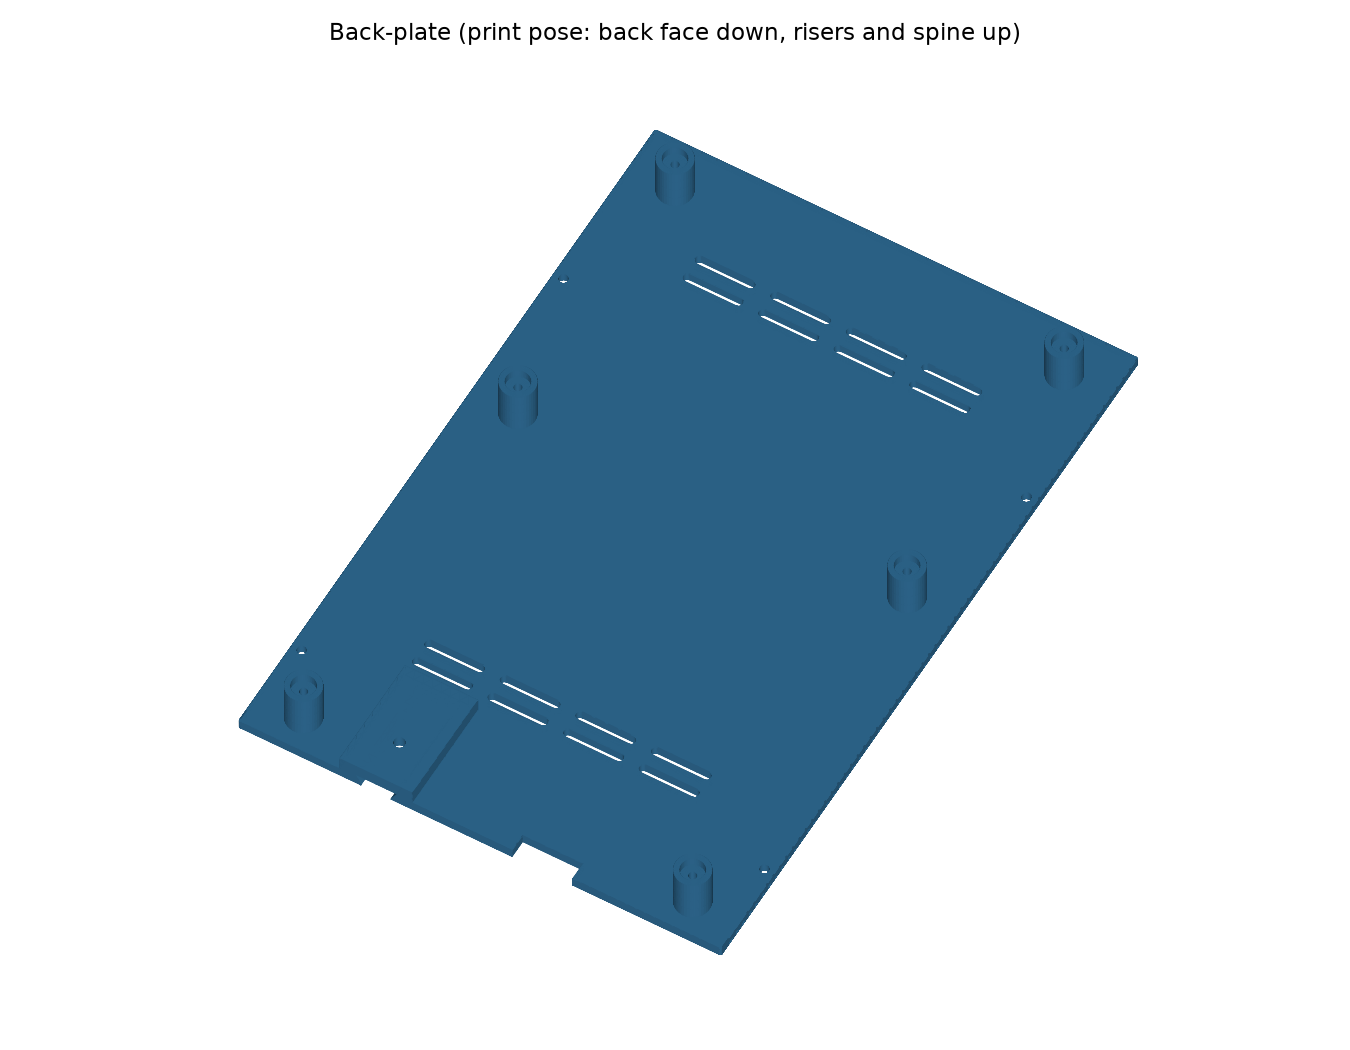
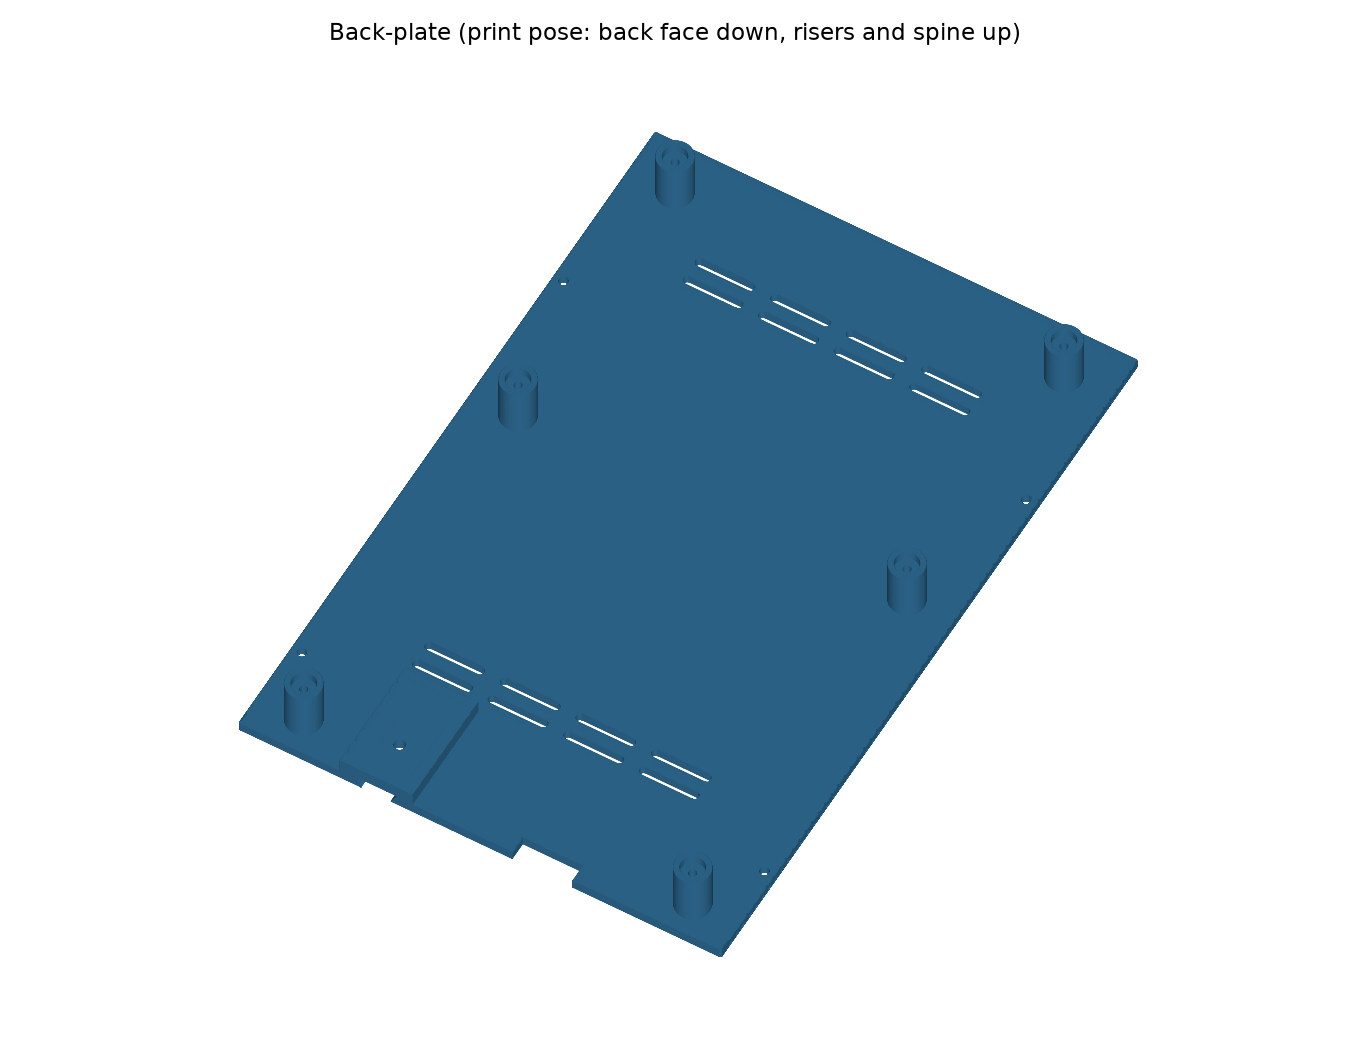
feat: COM-396 lengthen the printed risers from the frame fit test
The first printed plate left 2.5 mm between the frame face and the glass
(nominal 1.2 with felt). Print the risers RISER_FIT_ADD = 2.25 mm longer
for a 0.25 mm air gap and no face felt, deepen the head counterbores to
5.75 mm and the plug bodies to 3.85 mm so the M2.5 × 16 keeps 3.8 mm in
the inserts. The assembly model keeps the nominal board and risers; the
frame, foot and lid are unchanged. Add an as-built gap check and an
As-built fit section to the README.

diff --git a/apps/espframe/hardware/stand-10/stand10/params.py b/apps/espframe/hardware/stand-10/stand10/params.py
@@ -107,22 +107,28 @@ RISER_D = 11.0                    # DESIGN: leaves a 1.55 mm skirt wall round th
 RISER_SEAT = (BOSS_D + 0.4, 3.0)  # DESIGN: locating recess over each boss (dia, depth): a 0.2 mm/side slip fit that sleeves
                                   #   3 of the boss's 4.5 mm (1 mm on the printed coupon gripped too little, COM-396), so the
                                   #   skirt stops 1.5 mm off the flat back and the riser always seats on the boss top
+FIT_FACE_GAP_MEASURED = 2.5       # MEASURED (COM-396 fit test, screws tight, no felt): 6.5 mm from a rule on the frame face to
+                                  #   the glass, less the 4.0 mm face; the nominal model predicts 1.2 (the felt space)
+FIT_FACE_GAP_TARGET = 0.25        # DESIGN: the user's choice, a small air gap and no face felt
+RISER_FIT_ADD = FIT_FACE_GAP_MEASURED - FIT_FACE_GAP_TARGET  # 2.25: the printed risers are this much longer than the
+                                  #   nominal RISER_H. The assembly model keeps the nominal board and risers; only the
+                                  #   printed plate and riser coupon carry it. With felt, drop it by FELT_T and reprint the plate.
 SCREW_L = 16.0                    # DESIGN: M2.5 × 16 button head, no washer (the user's pack has × 16 and × 20, COM-396)
 WASHER_T = 0.0                    #   seated on the counterbore floor, SCREW_HEAD_CB[1] down from the back face
-SCREW_HEAD_CB = (5.6, 3.5)        # DESIGN: head counterbore (dia, depth from the back face): fits button heads up to Ø5.0,
-                                  #   the head top sits ~2 mm under the back; 12.2 mm of plate and riser to the boss top
+SCREW_HEAD_CB = (5.6, 3.5 + RISER_FIT_ADD)  # DESIGN: head counterbore (dia, depth from the back face): fits button heads
+                                  #   up to Ø5.0, the head top ~4.25 mm under the back; 12.2 mm of plate and riser to the boss top
                                   #   gives 3.8 mm into the 4.4 mm insert. No washer: one would lift the head
                                   #   0.5 mm, into the cover plug
 BUTTON_HEAD_K = 1.5               # EST: tallest M2.5 button head expected (commercial 1.3–1.5)
 PLUG_D = 5.45                     # DESIGN: removable cover plug, a friction fit in the Ø5.6 counterbore (PETG)
 PLUG_TRIAL_D = [5.35, 5.45, 5.55] # DESIGN: plug test set, 1–3 notches in the pull tab
-PLUG_BODY = 1.6                   # DESIGN: plug depth into the counterbore, short of the screw head
+PLUG_BODY = 1.6 + RISER_FIT_ADD   # DESIGN: plug depth into the counterbore, short of the screw head
 PLUG_FLANGE = (SCREW_HEAD_CB[0] + 0.8, 0.6)  # DESIGN: lip (dia, thickness) proud of the back face
 PLUG_TAB = (2.5, 1.2)             # DESIGN: pull tab on one side of the lip (width, reach past the lip) for a fingernail
 MIN_PLUG_HEAD_GAP = 0.3           # DESIGN: check limit, plug end above the tallest button head
 MIN_SCREW_ENGAGE = 3.0            # DESIGN: check limit, M2.5 thread engaged in the insert (1.2 × D)
 MIN_SCREW_BOTTOM = 0.3            # DESIGN: check limit, screw tip short of the insert's bottom
-# Engagement = SCREW_L − WASHER_T − (PLATE_T + RISER_H − SCREW_HEAD_CB depth); the riser's locating recess sits over the boss, not under the screw.
+# Engagement = SCREW_L − WASHER_T − (PLATE_T + RISER_H + RISER_FIT_ADD − SCREW_HEAD_CB depth); the riser's locating recess sits over the boss, not under the screw.
 D_BOSS_TOP = BODY_T + BOSS_H                       # 12.7
 D_PLATE_FRONT = BODY_T + BOX_D + PLATE_CLEAR       # 25.4
 D_PLATE_BACK = D_PLATE_FRONT + PLATE_T             # 28.4

diff --git a/apps/espframe/hardware/stand-10/stand10/plate.py b/apps/espframe/hardware/stand-10/stand10/plate.py
@@ -16,12 +16,14 @@ def frame_tab_spans():
             (inner_r - p.FRAME_BOSS_D, inner_r - p.PLATE_EDGE_CLEAR, inner_r - r))
 
 
-def riser_stack() -> Part:
+def riser_stack(fit: bool = False) -> Part:
     """One riser, from the plate front face (z = 0) forward: RISER_H to the boss top, then a RISER_SEAT recess
-    that drops over the boss, so the plate can't shift sideways on its screws."""
+    that drops over the boss, so the plate can't shift sideways on its screws. With fit, RISER_FIT_ADD longer:
+    the printed length, from the fit test."""
     sd, sh = p.RISER_SEAT
-    riser = Cylinder(p.RISER_D / 2, p.RISER_H + sh, align=(Align.CENTER, Align.CENTER, Align.MIN))
-    return riser - Pos(0, 0, p.RISER_H) * Cylinder(sd / 2, sh + 0.01, align=(Align.CENTER, Align.CENTER, Align.MIN))
+    h = p.RISER_H + (p.RISER_FIT_ADD if fit else 0.0)
+    riser = Cylinder(p.RISER_D / 2, h + sh, align=(Align.CENTER, Align.CENTER, Align.MIN))
+    return riser - Pos(0, 0, h) * Cylinder(sd / 2, sh + 0.01, align=(Align.CENTER, Align.CENTER, Align.MIN))
 
 
 def plate_outline():
@@ -31,7 +33,7 @@ def plate_outline():
     return (p.FRAME_X[0] + w + c, p.FRAME_X[1] - w - c, p.PLATE_Y0, p.FRAME_Y[1] - w - c)
 
 
-def build_plate() -> Part:
+def build_plate(fit: bool = False) -> Part:
     """Back-plate in the screen frame (z = -depth behind the glass front)."""
     # Fills the frame out to its walls, so the back is closed with no gap round the plate.
     x0, x1, y0, y1 = plate_outline()
@@ -40,7 +42,7 @@ def build_plate() -> Part:
 
     # Risers: from the plate front face forward over the rear box's depth, seated over the boss tops.
     for x, y in p.HOLES:
-        plate += Pos(x, y, -p.D_PLATE_FRONT) * riser_stack()
+        plate += Pos(x, y, -p.D_PLATE_FRONT) * riser_stack(fit)
 
     # Spine: local thickening towards the panel that carries the dovetail groove.
     plate += screen_box(p.SPINE_X[0], p.SPINE_X[1], y0, p.SPINE_TOP_Y,
@@ -56,7 +58,7 @@ def build_plate() -> Part:
     cd, ch = p.SCREW_HEAD_CB
     for x, y in p.HOLES:
         plate -= Pos(x, y, -p.D_PLATE_BACK - 1) * Cylinder(
-            p.M25_CLEAR_D / 2, p.PLATE_T + p.RISER_H + p.RISER_SEAT[1] + 2, align=(Align.CENTER, Align.CENTER, Align.MIN))
+            p.M25_CLEAR_D / 2, p.PLATE_T + p.RISER_H + p.RISER_FIT_ADD + p.RISER_SEAT[1] + 2, align=(Align.CENTER, Align.CENTER, Align.MIN))
         plate -= Pos(x, y, -p.D_PLATE_BACK - 1) * Cylinder(cd / 2, ch + 1, align=(Align.CENTER, Align.CENTER, Align.MIN))
 
     # Dovetail groove, open at the bottom edge so the plate slides down onto the rail.

diff --git a/apps/espframe/hardware/stand-10/stand10/checks.py b/apps/espframe/hardware/stand-10/stand10/checks.py
@@ -63,13 +63,19 @@ def run(parts: dict) -> list:
         f"skirts sleeve {p.RISER_SEAT[1]:g} mm of each boss and stop {back_gap:.2f} mm off the flat back; recess Ø{p.RISER_SEAT[0]:g} × {p.RISER_SEAT[1]:g} over Ø{p.BOSS_D:g} bosses")
 
     # 2. M2.5 screws: through the plate and riser into the board's inserts, never bottoming.
-    stack = p.PLATE_T + p.RISER_H - p.SCREW_HEAD_CB[1]
+    # The printed risers are RISER_FIT_ADD longer than the nominal model's (fit test), and the counterbore with them.
+    stack = p.PLATE_T + p.RISER_H + p.RISER_FIT_ADD - p.SCREW_HEAD_CB[1]
     engage = p.SCREW_L - p.WASHER_T - stack
     add(f"M2.5 × {p.SCREW_L:g} engagement in the inserts",
         p.MIN_SCREW_ENGAGE <= engage <= p.BOSS_THREAD - p.MIN_SCREW_BOTTOM,
         f"button head on the counterbore floor, {stack:.1f} mm above the boss top: {engage:.1f} mm into the "
         f"{p.BOSS_THREAD:g} mm insert (need {p.MIN_SCREW_ENGAGE:g}–{p.BOSS_THREAD - p.MIN_SCREW_BOTTOM:.1f}); "
         "no washer, which would lift the head into the cover plug")
+
+    fit_gap = p.FIT_FACE_GAP_MEASURED - p.RISER_FIT_ADD
+    add("As-built face gap after the riser fit", 0.1 <= fit_gap <= 0.5,
+        f"fit test: {p.FIT_FACE_GAP_MEASURED:g} mm from the frame face's rear to the glass with nominal risers; printed "
+        f"{p.RISER_FIT_ADD:g} mm longer, {fit_gap:.2f} mm of air, no face felt (need 0.1–0.5)")
 
     head_gap = p.SCREW_HEAD_CB[1] - p.WASHER_T - p.BUTTON_HEAD_K - p.PLUG_BODY
     add("Hole plugs clear the screw heads",

diff --git a/apps/espframe/hardware/stand-10/stand10/coupons.py b/apps/espframe/hardware/stand-10/stand10/coupons.py
@@ -53,13 +53,13 @@ def template_coupon() -> Part:
 
 
 def riser_coupon() -> Part:
-    """One riser on a 3 mm square of plate, as on the back-plate: back face on the bed. It should drop over a
+    """One riser on a 3 mm square of plate, as printed on the back-plate (RISER_FIT_ADD longer than nominal): back face on the bed. It should drop over a
     boss, and an M2.5 × 16 button head, no washer, should pull it down without bottoming in the insert, its head
     in the counterbore below the back face."""
     from .plate import riser_stack
     s = 22.0
-    part = box(-s / 2, s / 2, -s / 2, s / 2, 0, p.PLATE_T) + Pos(0, 0, p.PLATE_T) * riser_stack()
-    part -= Pos(0, 0, -1) * Cylinder(p.M25_CLEAR_D / 2, p.PLATE_T + p.RISER_H + p.RISER_SEAT[1] + 2,
+    part = box(-s / 2, s / 2, -s / 2, s / 2, 0, p.PLATE_T) + Pos(0, 0, p.PLATE_T) * riser_stack(fit=True)
+    part -= Pos(0, 0, -1) * Cylinder(p.M25_CLEAR_D / 2, p.PLATE_T + p.RISER_H + p.RISER_FIT_ADD + p.RISER_SEAT[1] + 2,
                                      align=(Align.CENTER, Align.CENTER, Align.MIN))
     cd, ch = p.SCREW_HEAD_CB
     part -= Pos(0, 0, -1) * Cylinder(cd / 2, ch + 1, align=(Align.CENTER, Align.CENTER, Align.MIN))

diff --git a/apps/espframe/hardware/stand-10/stand10/build.py b/apps/espframe/hardware/stand-10/stand10/build.py
@@ -57,7 +57,7 @@ def main(argv=None) -> int:
     plate, foot, lid, frame = build_plate(), build_foot(), build_lid(), build_frame()
     printed = {
         "frame": frame_print_pose(frame),
-        "plate": plate_print_pose(plate),
+        "plate": plate_print_pose(build_plate(fit=True)),   # printed risers carry RISER_FIT_ADD
         "foot": foot,
         "lid": lid_print_pose(lid),
         "coupon-template": template_coupon(),

diff --git a/apps/espframe/hardware/stand-10/README.md b/apps/espframe/hardware/stand-10/README.md
@@ -15,8 +15,8 @@ Overall 164 W × 127 D × 245 H mm. The screen leans back 15° and pushing it ba
 - **On the desk.** There's one variant, like the 7"'s on-desk one (COM-442): the frame stands on felt on the desk, and the foot behind it holds the lean through a dovetail. The shell's bottom edge sits 7 mm off the desk, as low as the straight plug's R18 bend allows (1.7 mm to spare).
 - **Picture frame (wood-look PLA).** The outer edge sits tight to the shell (2.7 mm outside it), and the face runs in over the whole black glass border to the picture, so only the picture shows, with a 0.75 mm reveal. Faces are 13.6 mm at the sides and 15.1 at the top; at the bottom the face runs down to the desk, a 20 mm border.
   - It's 164.1 × 253.1 mm printed face-down, within the P1S's 256 bed by 2.9 mm. A lower screen would need a shorter plug; a higher one would make the frame too tall to print in one piece.
-  - It hangs on the back-plate: four M3 × 8 screws from behind, through the plate's edges, into inserts in bosses on its side walls. There's no bottom wall (as the 7", COM-431). It never touches the glass: felt on the back of the face stays 0.2 mm off it.
-- **Back-plate (3 mm PETG), closed, behind the rear box.** Six printed risers (Ø11, 12.7 above the boss tops) stand on the board's six bosses (short black standoffs with brass M2.5 inserts) and carry the plate 2 mm behind the rear box. Each riser's skirt has a Ø7.9 × 3 mm recess that sleeves 3 of the boss's 4.5 mm, so the plate can't slide on its screws; the skirt stops 1.5 mm off the flat back, so the riser always seats on the boss top. Each screw hole is counterbored Ø5.6 × 3.5 mm from the back, so the M2.5 × 16 button heads sit about 2 mm below it, and a printed plug covers each one. Vent slots run in two rows low and two near the top.
+  - It hangs on the back-plate: four M3 × 8 screws from behind, through the plate's edges, into inserts in bosses on its side walls. There's no bottom wall (as the 7", COM-431). It never touches the glass: as printed (see As-built fit below) the face's rear stays 0.25 mm off it, with no face felt.
+- **Back-plate (3 mm PETG), closed, behind the rear box.** Six printed risers (Ø11, 14.95 mm from the plate to the boss tops: the nominal 12.7 plus the 2.25 mm fit correction) stand on the board's six bosses (short black standoffs with brass M2.5 inserts) and carry the plate 2 mm behind the rear box. Each riser's skirt has a Ø7.9 × 3 mm recess that sleeves 3 of the boss's 4.5 mm, so the plate can't slide on its screws; the skirt stops 1.5 mm off the flat back, so the riser always seats on the boss top. Each screw hole is counterbored Ø5.6 × 5.75 mm from the back, so the M2.5 × 16 button heads sit about 4.25 mm below it, and a printed plug covers each one. Vent slots run in two rows low and two near the top.
 - **Foot (PETG).** The plate's dovetail groove (in a spine left of the USB-C bank) slides down onto a rail on the foot's post. The cable drops through a notch in the plate's bottom edge and a slot in the shelf between the frame's side walls, runs through a tunnel into the tray, lies as one loose coil, and ends at the Poyiccot panel jack in the rear wall. The tray has a click-in lid, as on the 7".
 - **Power and data.** The same Poyiccot USB 3.1 straight panel-mount extension (30 cm) as the 7". Its plug goes into the board's **USB_UART** port (the USB-C beside the white TX/RX/GND header), so any USB-C charger powers it and you can flash or read logs through the stand.
 - **Antenna.** The C6's antenna window is near the top-left corner seen from the front (centre 23 mm from the top and from that edge). Only PETG covers it: the screw nearest it is nylon, and every other screw and insert stays at least 15 mm away (checked).
@@ -66,7 +66,8 @@ Every dimension is a named constant in [`stand10/params.py`](stand10/params.py),
 | Plate clears the rear box | 2.00 mm behind its back face |
 | Risers seat on the bosses | recess floor on the boss tops, no overlap with the board; skirts sleeve 3 mm of each boss and stop 1.5 mm off the flat back |
 | M2.5 × 16 engagement | button head, no washer, on the counterbore floor 12.2 mm above the boss top: 3.8 mm into the 4.4 mm insert, 0.6 short of its bottom. No washer: one would lift the head into the cover plug |
-| Hole plugs clear the screw heads | the 1.6 mm plug body stops 0.4 mm above a 1.5 mm button head; plugs Ø5.35–5.55 in the Ø5.6 counterbore |
+| As-built face gap after the riser fit | fit test 2.5 mm behind the face with nominal risers; printed 2.25 mm longer: 0.25 mm of air, no face felt |
+| Hole plugs clear the screw heads | the 3.85 mm plug body stops 0.4 mm above a 1.5 mm button head; plugs Ø5.35–5.55 in the Ø5.6 counterbore |
 | No metal near the antenna window | nearest metal 25 mm away (need ≥ 15); nylon screw in the top-left hole |
 | Dovetail clearance | 0.02 mm per side on the flanks (the 7"'s printed coupon), no interference |
 | Dovetail groove ends inside the spine | 2 mm of solid spine above the groove end (the 7" groove once cut through the plate) |
@@ -79,7 +80,7 @@ Every dimension is a named constant in [`stand10/params.py`](stand10/params.py),
 | Jack, receptacle and jack screws | the 7"'s measured thin-wall mount, flush receptacle; the screw heads leave 11 mm for a charger plug moulding |
 | Foot-lock screw (optional) | M3 × 12, 5.8 mm into an M3 × 4 insert; its counterbore runs on as an access bore that opens into the tray (the post's back is inside the foot body) |
 | Frame opening | 0.75 mm reveal all round; only the picture shows head-on |
-| Frame never touches the board | closest 0.70 mm; felt 0.20 mm off the glass |
+| Frame never touches the board | closest 0.70 mm in the nominal model (felt 0.20 mm off the glass); as printed, the face's rear is 0.25 mm off it with no felt |
 | Picture centred across the frame | faces 13.62 / 13.62 / 15.06 mm, bottom border 20 mm |
 | Frame bottom on the desk | face and side walls cut level on 1 mm felt; the frame clears the foot by 0.2 mm |
 | Plug bend and plate clear the shelf | a cable radius off the shelf; plate 0.6 mm above it |
@@ -114,7 +115,7 @@ Structural parts are PETG on the stock Bambu P1S profile with the 0.4 mm nozzle;
 | 4 | M3 × 8 pan head + M3 washer | Plate to the frame |
 | 4 | M3 × 4 × 4.2 heat-set inserts | Frame side-wall bosses |
 | 1 | M3 × 4 × 4.2 heat-set insert + 1 M3 × 12 | Optional foot lock (plate spine) |
-| 1 | 1 mm adhesive felt, ≈ 780 × 8 mm | Back of the frame face, over the black glass border only |
+| (0) | 1 mm adhesive felt, ≈ 780 × 8 mm | **Not fitted** with the fit-corrected plate. Fitting it means reprinting the plate with `FIT_FACE_GAP_TARGET` 1.25 (see As-built fit) |
 | 1 | 1 mm adhesive felt, ≈ 164 × 5 mm plus two ≈ 2 × 34 mm strips | Under the frame face's bottom and the side walls' bottoms |
 
 The foot stands straight on the desk: no rubber feet (they'd lift the shelf towards the plate, which has 0.6 mm to spare).
@@ -122,13 +123,17 @@ The foot stands straight on the desk: no rubber feet (they'd lift the shelf towa
 ## Assembly
 
 1. **Inserts.** Four M3 × 4 inserts into the frame's side-wall bosses at PLA temperature (about 190–200 °C); the optional foot-lock insert into the plate spine from the groove floor at PETG temperature (220–240 °C).
-2. **Felt.** The 8 mm strip on the back of the frame face, over the black border, its inner edge at least 1 mm outside the opening. The narrow strips under the frame's bottom edge, along the face and the two side walls, trimmed flush.
+2. **Felt.** The narrow strips under the frame's bottom edge, along the face and the two side walls, trimmed flush. No face felt with the fit-corrected plate: the face's rear sits 0.25 mm off the glass.
 3. **Jack.** Lid off, set the jack inside the tray against the rear wall, receptacle outwards, and fit its own two screws from outside.
 4. **Cable.** One loose coil in the tray, left of the jack, no tighter than about 40 mm across. Run it forward through the tunnel and push the plug up through the shelf slot (both 20 mm wide).
 5. **Plate.** Lay the board face down on a soft cloth. Set the plate on it so each riser's recess drops over a boss, the spine and groove at the USB-C end. Screw it down with five steel M2.5 × 16 button heads and the **nylon** one in the hole by the antenna, no washers: each head seats in its counterbore. Snug, don't crank: the threads are brass inserts in plastic standoffs. Press a plug into each counterbore, its thin lip against the back and the pull tab where a fingernail can reach it.
-6. **Frame.** **Screw the frame to the plate now, before the plate goes on the foot**: the dovetail is a free slide, and the frame on the desk sets the height. Lower the frame over the screen and fix it with four M3 × 8 + washers through the plate's edge holes. Check the even border and that the felt only rests on the black border.
+6. **Frame.** **Screw the frame to the plate now, before the plate goes on the foot**: the dovetail is a free slide, and the frame on the desk sets the height. Lower the frame over the screen and fix it with four M3 × 8 + washers through the plate's edge holes. Check the even border and a hairline gap between the face and the glass all round.
 7. **Plug and mount.** Plug the straight plug into USB_UART. Lower the plate's groove onto the foot's rail and let it slide down until the frame's felt meets the desk, with the foot standing on the desk too. The lead runs down through the plate's notch and the shelf slot. Optionally, with the lid off, fit the foot-lock M3 × 12 from inside the tray, through the access bore in the tray's front wall, into the plate spine's insert. Fit the lid front edge first, then press the rear edge down until it clicks.
 8. **Rotation.** In the espframe settings, pick the portrait rotation that shows the picture upright.
+
+## As-built fit
+
+The first printed plate, screws tight, left 2.5 mm between the frame face's rear and the glass (6.5 mm from a rule on the face to the glass, less the 4 mm face), where the nominal model predicts 1.2 (1 mm felt + 0.2). The shortfall is somewhere in the board stack or the prints, so the model keeps its nominal board and risers and the printed parts carry a measured correction instead: `RISER_FIT_ADD = FIT_FACE_GAP_MEASURED − FIT_FACE_GAP_TARGET` = 2.5 − 0.25 = 2.25 mm on each riser of `plate` and `coupon-riser`. The counterbores (5.75 mm) and plug bodies (3.85 mm) deepen with it, so the screws keep 3.8 mm in the inserts. The frame, foot and lid don't change. To fit face felt after all, set `FIT_FACE_GAP_TARGET` to 1.25 (risers 1.25 longer, felt 0.25 off the glass) and reprint the plate and plugs.
 
 ## Open items
 
